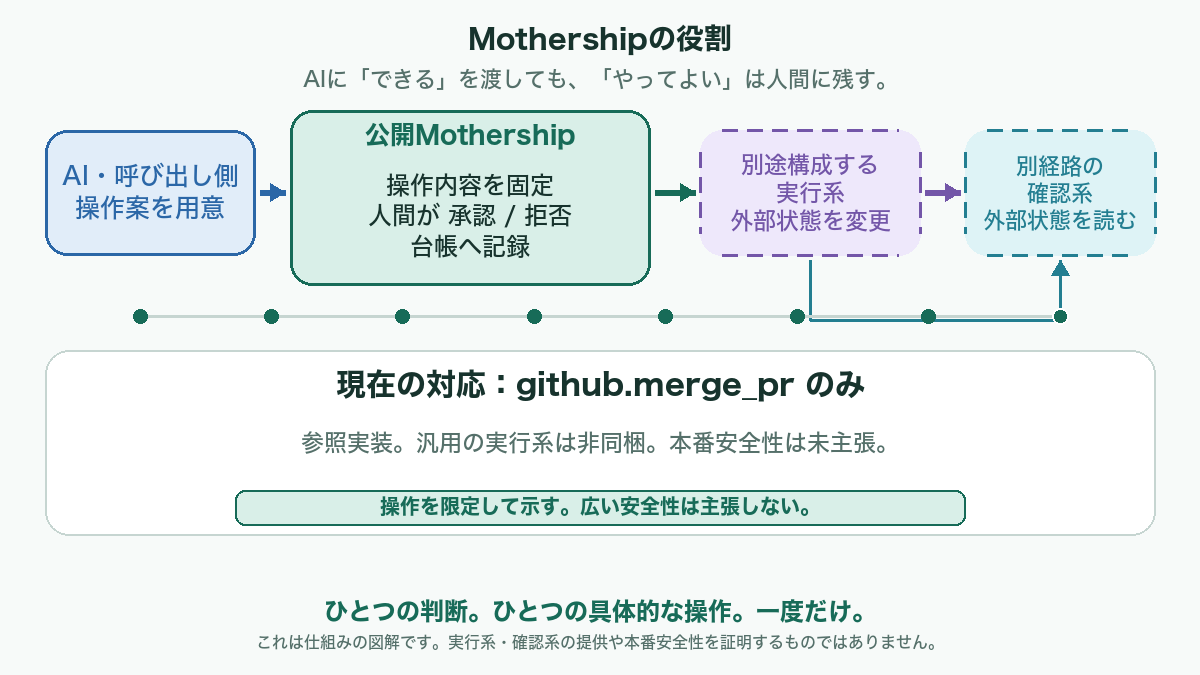
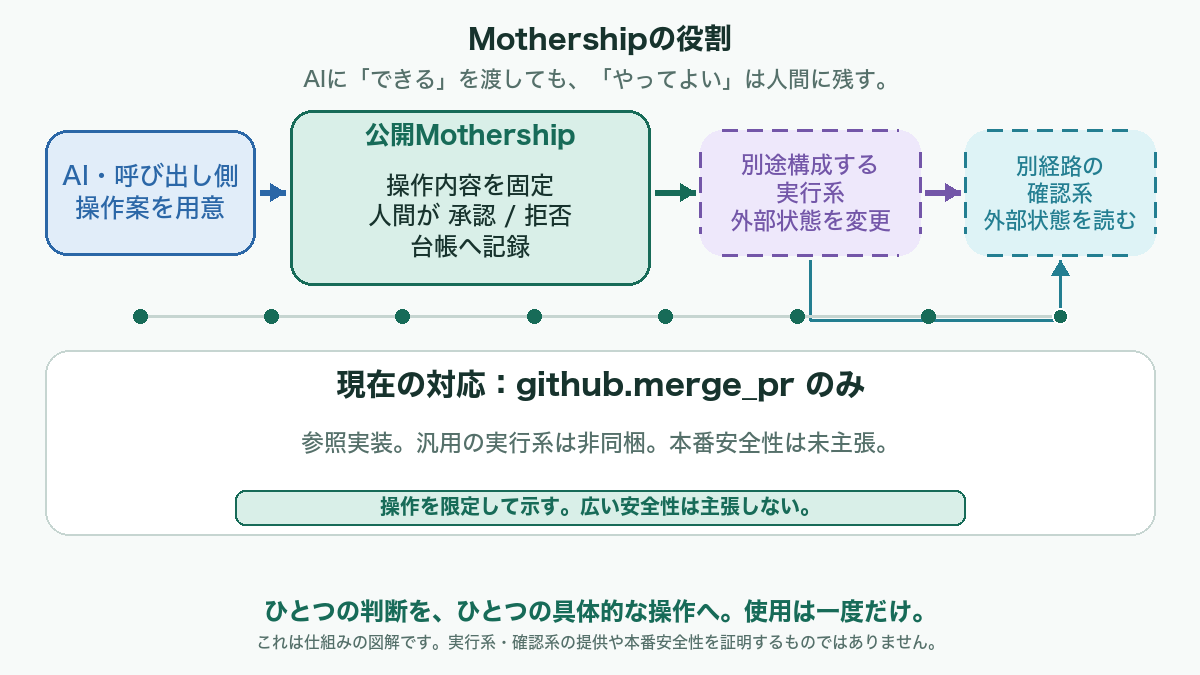
docs: correct v0.4.1 authority claims

Changed region(s): [[0.2158, 0.8711, 0.7708, 0.9333]]

diff --git a/tests/test_documentation.py b/tests/test_documentation.py
@@ -148,7 +148,7 @@ class ReadmeContractTests(unittest.TestCase):
     def test_reference_positioning_and_scope_are_explicit(self) -> None:
         for phrase in (
             "AIに「できる」を渡しても、「やってよい」は人間に残す。",
-            "ひとつの判断。ひとつの具体的な操作。一度だけ。",
+            "ひとつの判断を、ひとつの具体的な操作へ。使用は一度だけ。",
             "リファレンス実装",
             "github.merge_pr",
             "base commit SHAは結び付けられません",
@@ -159,6 +159,36 @@ class ReadmeContractTests(unittest.TestCase):
             "汎用的な\nエージェントセキュリティ基盤ではありません",
         ):
             self.assertIn(phrase, self.text)
+        self.assertNotIn("ひとつの判断。ひとつの具体的な操作。一度だけ。", self.text)
+
+    def test_authority_flow_and_decision_cardinality_match_v0_4_1(self) -> None:
+        english = README_EN.read_text("utf-8")
+
+        for phrase in (
+            'E["Evidence / proposal"] -. "判断材料のみ<br/>v0.4.1では未結合" .-> H{{"人間の判断"}}',
+            'P["対応済みの<br/>実行パラメータ"] --> F["FrozenAction"]',
+            'F --> H',
+            'H --> A["判断eventを記録"]',
+            'A --> C["同じ台帳履歴内で<br/>一度だけconsume"]',
+            'C --> X["別途構成した<br/>executor"]',
+            "同じactionへ複数のdecision eventを記録できる",
+            "同じaction IDは同じ台帳履歴内で一度だけconsumeできる",
+        ):
+            self.assertIn(phrase, self.text)
+
+        for phrase in (
+            "One decision bound to one exact supported action. One use.",
+            'E["Evidence / proposal"] -. "decision context only<br/>unbound in v0.4.1" .-> H{{"Human decision"}}',
+            'P["Exact supported<br/>execution parameters"] --> F["FrozenAction"]',
+            'F --> H',
+            'H --> A["Record decision event"]',
+            'A --> C["One consume in the same<br/>trusted ledger history"]',
+            'C --> X["Separately configured<br/>executor"]',
+            "Multiple decision events may be recorded for the same action",
+            "one consume per action ID in one trusted ledger history",
+        ):
+            self.assertIn(phrase, english)
+        self.assertNotIn("One human decision. One exact supported action. One use.", english)
 
     def test_public_result_and_links_are_bounded(self) -> None:
         self.assertIn(f"]({E2E_EVIDENCE_LINK})", self.text)
@@ -226,6 +256,10 @@ class ReadmeContractTests(unittest.TestCase):
         self.assertEqual(1, self.text.count("assets/readme/ja/mothership-flow.gif"))
         self.assertEqual(1, self.text.count("assets/readme/ja/mothership-flow-poster.png"))
         self.assertIn("仕組みの図解です", self.text)
+        generator = (ROOT / "assets/readme/source/generate_mothership_flow.py").read_text("utf-8")
+        self.assertIn("cross-host", generator)
+        self.assertNotIn("deterministic explanatory asset", generator)
+        self.assertIn("ひとつの判断を、ひとつの具体的な操作へ。使用は一度だけ。", generator)
 
     def test_code_tour_and_cli_scope_are_exact(self) -> None:
         for path in (
@@ -380,7 +414,7 @@ class PublicE2EEvidenceDocumentationTests(unittest.TestCase):
             "# Mothership",
             'src="assets/mothership-banner.png"',
             "AIに「できる」を渡しても、「やってよい」は人間に残す。",
-            "ひとつの判断。ひとつの具体的な操作。一度だけ。",
+            "ひとつの判断を、ひとつの具体的な操作へ。使用は一度だけ。",
             "Mothershipは、AIの提案と外部操作の境界を扱う、範囲を限定した",
             "## 現在の公開範囲",
             f"]({E2E_EVIDENCE_LINK})",
@@ -417,6 +451,8 @@ class PublicE2EEvidenceDocumentationTests(unittest.TestCase):
         ):
             with self.subTest(fact=fact):
                 self.assertIn(fact, public)
+        self.assertIn("derived value, not a field", public)
+        self.assertNotIn("These facts are captured", public)
 
         sanitized_lifecycle = (
             "caller-attested human approval",

diff --git a/assets/readme/source/generate_mothership_flow.py b/assets/readme/source/generate_mothership_flow.py
@@ -1,7 +1,8 @@
 """Generate the Japanese Mothership README explainer GIF and poster.
 
-This is a deterministic explanatory asset.  It intentionally contains no
-runtime output, credentials, browser capture, or external evidence.
+This source generates the committed explanatory assets in the release build
+environment.  The committed output bytes are checksum-pinned.  It intentionally
+contains no runtime output, credentials, browser capture, or external evidence.
 """
 
 from __future__ import annotations
@@ -23,6 +24,8 @@ STAGE_SECONDS = 1.25
 STAGES = 8
 FRAME_COUNT = int(FPS * STAGE_SECONDS * STAGES)
 
+# Release-asset build inputs. These host font paths are intentionally explicit;
+# cross-host portability or byte-identical regeneration is not claimed.
 FONT_PATH = "/System/Library/Fonts/ヒラギノ角ゴシック W5.ttc"
 FONT_BOLD_PATH = "/System/Library/Fonts/ヒラギノ角ゴシック W7.ttc"
 
@@ -198,7 +201,7 @@ def draw_frame(stage: int, progress: float = 1.0) -> Image.Image:
     cursor = timeline_start + int((timeline_end - timeline_start) * max(0.0, min(1.0, progress)))
     draw.ellipse((cursor - 8, timeline_y - 8, cursor + 8, timeline_y + 8), fill=GREEN, outline=WHITE, width=2)
     draw_stage_panel(draw, stage)
-    centered(draw, (WIDTH // 2, 610), "ひとつの判断。ひとつの具体的な操作。一度だけ。", font(24, bold=True), GREEN)
+    centered(draw, (WIDTH // 2, 610), "ひとつの判断を、ひとつの具体的な操作へ。使用は一度だけ。", font(24, bold=True), GREEN)
     centered(draw, (WIDTH // 2, 642), "これは仕組みの図解です。実行系・確認系の提供や本番安全性を証明するものではありません。", font(16), MUTED)
     return image
 

diff --git a/README.en.md b/README.en.md
@@ -4,7 +4,7 @@
 
 > Give AI the capability to prepare work. Keep authority with the human.
 >
-> One human decision. One exact supported action. One use.
+> One decision bound to one exact supported action. One use.
 
 Mothership is a field-built reference implementation and executable design thesis for a bounded Action Authority.
 It defines a narrow boundary for relating one human decision to one exact supported action with a short validity window
@@ -36,21 +36,25 @@ restored ledgers are another replay domain. A process fork after issuance is not
 
 The [PR #18 bounded public result](docs/evidence/github-merge-pr-e2e-20260903/README.md) records one `github.merge_pr`
 trial against an isolated canary base. Public GitHub read-back records the target head SHA, merge commit, parents,
-and bounded diff. This is one result for PR #18 only. It does not claim publicly reproducible private lifecycle traces,
+and bounded diff counts. This is one result for PR #18 only. It does not claim publicly reproducible private lifecycle traces,
 generic safety, or production readiness.
 
 ## Boundary model
 
 ```mermaid
 flowchart LR
-    E[Evidence / proposal] --> H{{Human decision}}
-    H --> F[FrozenAction<br/>exact github.merge_pr]
-    F --> L[One consume<br/>trusted local ledger]
-    L --> X[Separately configured<br/>bounded executor]
+    E["Evidence / proposal"] -. "decision context only<br/>unbound in v0.4.1" .-> H{{"Human decision"}}
+    P["Exact supported<br/>execution parameters"] --> F["FrozenAction"]
+    F --> H
+    H --> A["Record decision event"]
+    A --> C["One consume in the same<br/>trusted ledger history"]
+    C --> X["Separately configured<br/>executor"]
 ```
 
-Evidence and proposals are decision inputs. The human decision is caller-attested and bound to the exact action digest.
-The executor after `FrozenAction` consumption is separately configured. Mothership does not call a model or mutate GitHub.
+Evidence and proposals are decision inputs, but v0.4.1 does not mechanically bind them to a `FrozenAction`. Exact supported
+execution parameters are frozen first; a caller-attested human decision is then checked against the action ID and digest
+before its event is recorded. The same action ID can be consumed once in one trusted local ledger history. The executor is
+separately configured. Mothership does not call a model or mutate GitHub.
 
 ## Quick start
 
@@ -93,7 +97,8 @@ Card does not automatically become a `FrozenAction`; the caller supplies exact p
 | Area | The public implementation supports | It does not claim |
 | --- | --- | --- |
 | identity | caller-attested decisions | human identity authentication |
-| replay | one-use consumption in one trusted local ledger history | global replay prevention across copied/restored ledgers |
+| decision events | Multiple decision events may be recorded for the same action | one terminal decision per action, or supersession/revocation semantics |
+| consume | one consume per action ID in one trusted ledger history | global replay prevention across copied/restored ledgers |
 | action scope | five exact parameters for `github.merge_pr` | base-commit binding or arbitrary operations |
 | expiry | a short TTL that is shown and checked | binding `expires_at` into the digest |
 | execution | returning data for a separate executor | a live executor, credentials, retries, or a daemon |

diff --git a/docs/evidence/github-merge-pr-e2e-20260903/README.md b/docs/evidence/github-merge-pr-e2e-20260903/README.md
@@ -15,13 +15,17 @@ The public repository records this exact consequence:
 - Merge commit: `1cfbbf646b8ac227c8c411f08a961c4396cc69ca`.
 - Merge parents, in order: `880e514382b1a9594a9d4a6f06f5939283e57c60` and
   `0874166551f11d580168e8b4d0f354e742d39fe6`.
-- Diff: 1 file, +5/-0, adding `docs/e2e-fixtures/github-merge-pr-v1.txt`.
[1 lines of base64/hex data omitted]
+- Diff: 1 file, +5/-0, adding
+  [`docs/e2e-fixtures/github-merge-pr-v1.txt`](https://github.com/UMEBOSHIISAN/mothership/blob/1cfbbf646b8ac227c8c411f08a961c4396cc69ca/docs/e2e-fixtures/github-merge-pr-v1.txt).
+- Marker SHA-256, computed from those public file bytes:
[1 lines of base64/hex data omitted]
 - Public `main` remained unchanged at `a5fc0d5997199dea2db5800b561e9a972765d27d`.
 - Source fork head remained at the approved head after the merge.
 
-These facts are captured in [`public-github-readback.json`](public-github-readback.json). They establish the resulting
-Git objects, isolated target, exact head ancestry, bounded diff, preserved source head, and unchanged public `main`.
+[`public-github-readback.json`](public-github-readback.json) captures the merge state, target branch, head and merge
+commit identifiers, merge parents, aggregate diff counts, preserved source head, and unchanged public `main`. The
+linked exact-commit file supplies the changed path and marker bytes; its SHA-256 above is a derived value, not a field
+in the read-back JSON.
 
 ## Sanitized lifecycle records
 

diff --git a/assets/readme/source/mothership-flow-storyboard.md b/assets/readme/source/mothership-flow-storyboard.md
@@ -1,8 +1,9 @@
 # Mothership 日本語説明GIFの絵コンテ
 
 この資料と `generate_mothership_flow.py` は、READMEに置く説明用GIFと
-静止画ポスターの決定的な生成元です。実行結果の証拠や外部操作の記録では
-ありません。
+静止画ポスターの生成元です。commit済みの出力bytesは `SHA256SUMS` で固定します。
+異なるhost間でのbyte-identicalな再生成は主張しません。実行結果の証拠や
+外部操作の記録でもありません。
 
 ## 伝える順番
 
